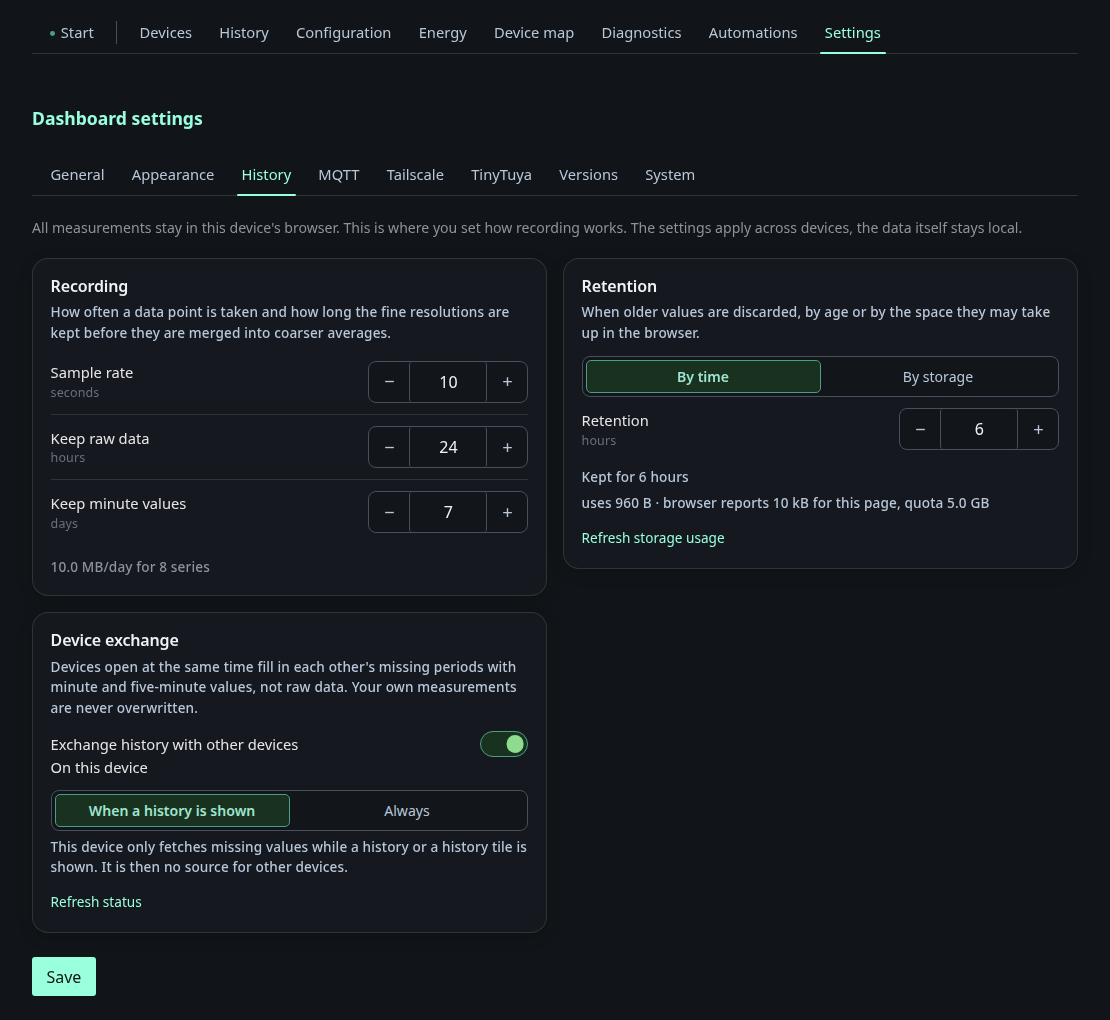
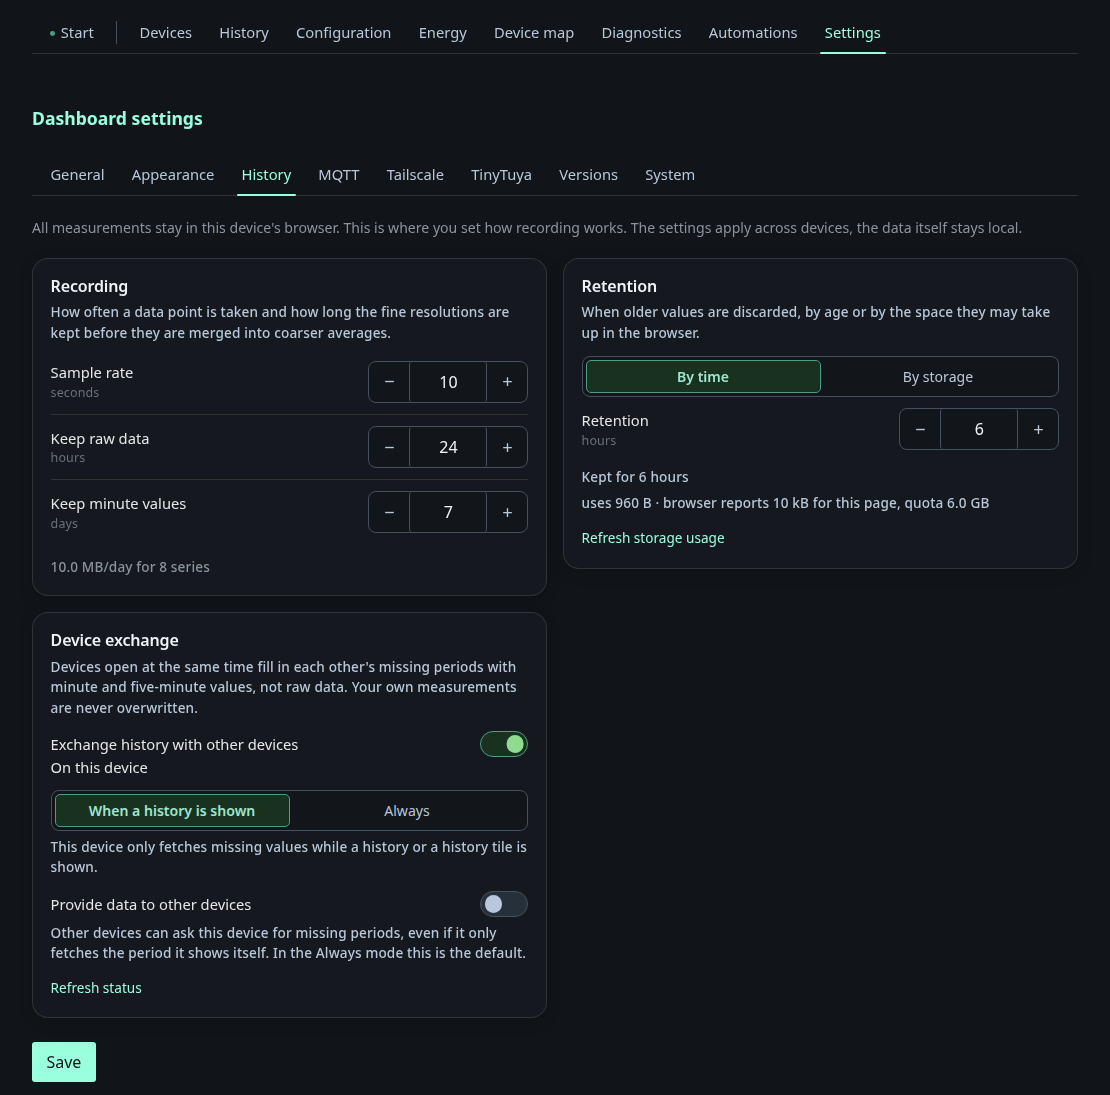
feat(dashboard): let a device in on-demand mode still provide history to others

diff --git a/dashboard/internal/webui/templates/base.html b/dashboard/internal/webui/templates/base.html
@@ -201,7 +201,7 @@
   <section id="config-panel" class="panel" role="tabpanel" aria-labelledby="tab-config" x-bind:class="{ active: activePanel === 'config-panel' }" x-show="activePanel === 'config-panel'" data-panel-src="{{.BasePath}}/?fragment=panel&panel=config" data-panel-script="{{.BasePath}}/static/js/revisions.js?v=4,{{.BasePath}}/static/js/schema-form.js?v=2,{{.BasePath}}/static/js/config-status.js?v=3,{{.BasePath}}/static/js/config.page.js?v=9" data-panel-css="{{.BasePath}}/static/css/manager.css?v=32"><p class="panel-loading" data-panel-loading>{{t "panel.config_loading"}}</p></section>
   <section id="energy-panel" class="panel" role="tabpanel" aria-labelledby="tab-energy" x-bind:class="{ active: activePanel === 'energy-panel' }" x-show="activePanel === 'energy-panel'" data-panel-src="{{.BasePath}}/?fragment=panel&panel=energy" data-panel-script="{{.BasePath}}/static/js-deps/cytoscape.min.js,{{.BasePath}}/static/js/revisions.js?v=4,{{.BasePath}}/static/js/devicemap-model.js?v=7,{{.BasePath}}/static/js/devicemap-graph.js?v=3,{{.BasePath}}/static/js/devicemap-dataflow.js?v=1,{{.BasePath}}/static/js/devicemap-node-svg.js?v=4,{{.BasePath}}/static/js/devicemap-labels.js?v=2,{{.BasePath}}/static/js/energy-plant.js?v=2,{{.BasePath}}/static/js/device-picker.js?v=1,{{.BasePath}}/static/js/energy.page.js?v=9" data-panel-css="{{.BasePath}}/static/css/manager.css?v=32"><p class="panel-loading" data-panel-loading>{{t "panel.energy_loading"}}</p></section>
   <section id="devicemap-panel" class="panel" role="tabpanel" aria-labelledby="tab-devicemap" x-bind:class="{ active: activePanel === 'devicemap-panel' }" x-show="activePanel === 'devicemap-panel'" data-panel-src="{{.BasePath}}/?fragment=panel&panel=devicemap" data-panel-script="{{.BasePath}}/static/js-deps/cytoscape.min.js,{{.BasePath}}/static/js/revisions.js?v=4,{{.BasePath}}/static/js/devicemap-model.js?v=7,{{.BasePath}}/static/js/devicemap-node-svg.js?v=4,{{.BasePath}}/static/js/devicemap-labels.js?v=2,{{.BasePath}}/static/js/devicemap-graph.js?v=3,{{.BasePath}}/static/js/devicemap-dataflow.js?v=1,{{.BasePath}}/static/js/automations-view.js?v=2,{{.BasePath}}/static/js/device-picker.js?v=1,{{.BasePath}}/static/js/devicemap.page.js?v=18" data-panel-css="{{.BasePath}}/static/css/manager.css?v=32"><p class="panel-loading" data-panel-loading>{{t "panel.devicemap_loading"}}</p></section>
-  <section id="settings-panel" class="panel" role="tabpanel" aria-labelledby="tab-settings" x-bind:class="{ active: activePanel === 'settings-panel' }" x-show="activePanel === 'settings-panel'" data-panel-src="{{.BasePath}}/?fragment=panel&panel=settings" data-panel-script="{{.BasePath}}/static/js-deps/choices.min.js,{{.BasePath}}/static/js/revisions.js?v=4,{{.BasePath}}/static/js/schema-form.js?v=2,{{.BasePath}}/static/js/settings.page.js?v=17,{{.BasePath}}/static/js/mqtt.page.js?v=7,{{.BasePath}}/static/js/tailscale.page.js?v=4,{{.BasePath}}/static/js/versions.page.js?v=5,{{.BasePath}}/static/js/systemconfig.page.js?v=5" data-panel-css="{{.BasePath}}/static/css/choices.min.css,{{.BasePath}}/static/css/choices.css?v=2,{{.BasePath}}/static/css/manager.css?v=32,{{.BasePath}}/static/css/settings-controls.css?v=11"><p class="panel-loading" data-panel-loading>{{t "panel.settings_loading"}}</p></section>
+  <section id="settings-panel" class="panel" role="tabpanel" aria-labelledby="tab-settings" x-bind:class="{ active: activePanel === 'settings-panel' }" x-show="activePanel === 'settings-panel'" data-panel-src="{{.BasePath}}/?fragment=panel&panel=settings" data-panel-script="{{.BasePath}}/static/js-deps/choices.min.js,{{.BasePath}}/static/js/revisions.js?v=4,{{.BasePath}}/static/js/schema-form.js?v=2,{{.BasePath}}/static/js/settings.page.js?v=18,{{.BasePath}}/static/js/mqtt.page.js?v=7,{{.BasePath}}/static/js/tailscale.page.js?v=4,{{.BasePath}}/static/js/versions.page.js?v=5,{{.BasePath}}/static/js/systemconfig.page.js?v=5" data-panel-css="{{.BasePath}}/static/css/choices.min.css,{{.BasePath}}/static/css/choices.css?v=2,{{.BasePath}}/static/css/manager.css?v=32,{{.BasePath}}/static/css/settings-controls.css?v=11"><p class="panel-loading" data-panel-loading>{{t "panel.settings_loading"}}</p></section>
   {{if index .InstalledServices "automation"}}<section id="automations-panel" class="panel" role="tabpanel" aria-labelledby="tab-automations" x-bind:class="{ active: activePanel === 'automations-panel' }" x-show="activePanel === 'automations-panel'" data-panel-src="{{.BasePath}}/?fragment=panel&panel=automations" data-panel-script="{{.BasePath}}/static/js/config-status.js?v=3,{{.BasePath}}/static/js/automations-view.js?v=2,{{.BasePath}}/static/js/automations.page.js?v=11" data-panel-css="{{.BasePath}}/static/css/manager.css?v=32,{{.BasePath}}/static/css/automations.css?v=6"><p class="panel-loading" data-panel-loading>{{t "panel.automations_loading"}}</p></section>{{end}}
   {{else}}
   <section id="diagnostics-panel" class="panel" role="tabpanel" aria-labelledby="tab-diagnostics" x-bind:class="{ active: activePanel === 'diagnostics-panel' }" x-show="activePanel === 'diagnostics-panel'" data-panel-src="{{.BasePath}}/?fragment=panel&panel=diagnostics" data-panel-css="{{.BasePath}}/static/css/settings-controls.css?v=11,{{.BasePath}}/static/css/diagnostics.css?v=2"><p class="panel-loading" data-panel-loading>{{t "panel.diagnostics_loading"}}</p></section>
@@ -270,7 +270,7 @@
   <script src="{{.BasePath}}/static/js/history-rollup.js?v=1" defer></script>
   <script src="{{.BasePath}}/static/js/history-store.js?v=4" defer></script>
   <script src="{{.BasePath}}/static/js/history-coverage.js?v=3" defer></script>
-  <script src="{{.BasePath}}/static/js/history-exchange.js?v=4" defer></script>
+  <script src="{{.BasePath}}/static/js/history-exchange.js?v=5" defer></script>
   <script src="{{.BasePath}}/static/js/history-maintenance.js?v=1" defer></script>
   <script src="{{.BasePath}}/static/js/history-recorder.js?v=11" defer></script>
   <script src="{{.BasePath}}/static/js/notifications.js?v=2" defer></script>

diff --git a/dashboard/internal/webui/static/js/history-exchange.js b/dashboard/internal/webui/static/js/history-exchange.js
@@ -34,6 +34,20 @@
     }
   };
 
+  // Ob dieses Geraet seine Deckung anderen anbietet, ist getrennt vom Modus
+  // waehlbar. Ohne gespeicherte Wahl folgt es dem Modus: always bietet an,
+  // on-demand nicht. Gespeichert wird nur die ausdrueckliche Wahl.
+  const SERVE_KEY = 'history-exchange-serve';
+
+  const readServe = () => {
+    try {
+      const value = window.localStorage.getItem(SERVE_KEY);
+      return value === 'on' || value === 'off' ? value : null;
+    } catch (error) {
+      return null;
+    }
+  };
+
   // Eine Anmeldung, die nicht erneuert wird, verfaellt. Seite und Kachel
   // melden bei jedem Laden neu an, ein geschlossener Tab dagegen nie ab.
   const WATCH_TTL_MS = 10 * 60 * 1000;
@@ -51,6 +65,8 @@
   let reconnectTimer = null;
   let pending = new Set();
   let mode = readMode();
+  let serve = readServe();
+  const serving = () => (serve === null ? mode === 'always' : serve === 'on');
   // Sichtbare Zeitraeume im Modus on-demand, Schluessel "<tab>:<ansicht>".
   let watched = new Map();
   // Zaehlt eingehende Angebote. Ein neues Angebot ist der einzige Grund,
@@ -87,8 +103,8 @@
   // erzeugte jeder Verdichtungslauf ein Angebot an alle - im Minutentakt,
   // ueber alle verbundenen Geraete.
   const refreshOffer = async () => {
-    // Im Modus on-demand ist dieses Geraet keine Quelle fuer andere.
-    if (!peerId || mode !== 'always') return;
+    // Ohne Freigabe ist dieses Geraet keine Quelle fuer andere.
+    if (!peerId || !serving()) return;
     const coverage = await ownCoverage();
     const fingerprint = JSON.stringify(coverage);
     if (fingerprint === lastOffer) return;
@@ -298,6 +314,7 @@
     options = {...options, ...(settings || {})};
     stopped = false;
     mode = readMode();
+    serve = readServe();
     try {
       const response = await fetcher(url(''));
       if (!response.ok) {
@@ -351,10 +368,21 @@
   const applyMode = async value => {
     if (value === mode) return;
     mode = value;
-    if (mode !== 'always' || !peerId) return;
+    if (!peerId) return;
+    if (serving()) {
+      lastOffer = '';
+      await refreshOffer();
+    }
+    if (mode === 'always') await planAll();
+  };
+
+  const applyServe = async value => {
+    if (value === serve) return;
+    const before = serving();
+    serve = value;
+    if (!peerId || serving() === before || !serving()) return;
     lastOffer = '';
     await refreshOffer();
-    await planAll();
   };
 
   const setMode = async next => {
@@ -367,10 +395,21 @@
     await applyMode(value);
   };
 
+  const setServe = async flag => {
+    const value = flag ? 'on' : 'off';
+    try {
+      window.localStorage.setItem(SERVE_KEY, value);
+    } catch (error) {
+      // Privater Modus: die Wahl gilt bis zum Neuladen.
+    }
+    await applyServe(value);
+  };
+
   // Andere Tabs desselben Browsers schalten ueber localStorage um. Das
   // storage-Ereignis erreicht nur die ANDEREN Tabs, der eigene ruft setMode().
   window.addEventListener('storage', event => {
     if (event.key === MODE_KEY) applyMode(readMode()).catch(() => {});
+    if (event.key === SERVE_KEY) applyServe(readServe()).catch(() => {});
   });
 
   const status = () => ({
@@ -383,9 +422,10 @@
     lastAt: state.lastAt,
     reason: state.reason,
     mode,
+    serving: serving(),
   });
 
   window.HistoryExchange = {
-    start, stop, status, pushBuffer, refreshOffer, mode: () => mode, setMode, watchRange, unwatchRange,
+    start, stop, status, pushBuffer, refreshOffer, mode: () => mode, setMode, serving, setServe, watchRange, unwatchRange,
   };
 })();

diff --git a/dashboard/internal/webui/templates/settings.html b/dashboard/internal/webui/templates/settings.html
@@ -276,6 +276,14 @@
           <label class="segmented-option"><input type="radio" name="history-exchange-mode" value="always" x-bind:checked="historyExchangeMode === 'always'" x-on:change="setExchangeMode('always')"><span>{{t "settings.history.exchange.mode.always"}}</span></label>
         </div>
         <p id="history-exchange-mode-note" class="setting-note" x-show="historyExchangeMode === 'on-demand'">{{t "settings.history.exchange.mode.on_demand_note"}}</p>
+        <label class="switch-row" for="history-exchange-serve">
+          <span>{{t "settings.history.exchange.serve.label"}}</span>
+          <span class="settings-toggle">
+            <input id="history-exchange-serve" type="checkbox" role="switch" x-bind:checked="historyExchangeServe" x-on:change="setExchangeServe($event.target.checked)" x-bind:aria-checked="historyExchangeServe.toString()">
+            <span class="settings-toggle-track" aria-hidden="true"><span class="settings-toggle-thumb"></span></span>
+          </span>
+        </label>
+        <p id="history-exchange-serve-note" class="setting-note">{{t "settings.history.exchange.serve.note"}}</p>
       </div>
       <p id="history-exchange-status" class="setting-note" x-text="historyExchangeStatus"></p>
       <p id="history-exchange-source" class="setting-note" x-show="historyExchangeSource" x-text="historyExchangeSource"></p>

diff --git a/dashboard/internal/webui/static/js/settings.page.js b/dashboard/internal/webui/static/js/settings.page.js
@@ -66,6 +66,8 @@
     // Der Modus gilt nur fuer diesen Browser und steht in localStorage
     // (history-exchange.js), nicht in den Knoten-Einstellungen.
     historyExchangeMode: window.HistoryExchange && window.HistoryExchange.mode ? window.HistoryExchange.mode() : 'on-demand',
+    // Ob dieses Geraet seine Deckung anderen anbietet. Wie der Modus lokal.
+    historyExchangeServe: window.HistoryExchange && window.HistoryExchange.serving ? window.HistoryExchange.serving() : false,
     historyExchangeStatus: '',
     historyExchangeSource: '',
     historyViews: [],
@@ -274,6 +276,13 @@
       this.historyExchangeMode = mode === 'always' ? 'always' : 'on-demand';
       if (window.HistoryExchange && window.HistoryExchange.setMode) {
         window.HistoryExchange.setMode(this.historyExchangeMode).catch(() => {});
+      }
+    },
+
+    setExchangeServe(flag) {
+      this.historyExchangeServe = Boolean(flag);
+      if (window.HistoryExchange && window.HistoryExchange.setServe) {
+        window.HistoryExchange.setServe(this.historyExchangeServe).catch(() => {});
       }
     },
 

diff --git a/dashboard/internal/webui/webui_test.go b/dashboard/internal/webui/webui_test.go
@@ -140,7 +140,7 @@ func TestOverviewDoesNotLoadManagerAssetsInitially(t *testing.T) {
 	}
 	for path, script := range map[string]string{
 		"history-panel":  "/static/js-deps/apexcharts.min.js,/static/js-deps/flatpickr.min.js?v=1,/static/js-deps/flatpickr-l10n-de.js?v=1,/static/js/history-export.js?v=2,/static/js/energy-model.js?v=3,/static/js/history-chart.js?v=2,/static/js/history.js?v=15",
-		"settings-panel": "/static/js-deps/choices.min.js,/static/js/revisions.js?v=4,/static/js/schema-form.js?v=2,/static/js/settings.page.js?v=17,/static/js/mqtt.page.js?v=7,/static/js/tailscale.page.js?v=4,/static/js/versions.page.js?v=5,/static/js/systemconfig.page.js?v=5",
+		"settings-panel": "/static/js-deps/choices.min.js,/static/js/revisions.js?v=4,/static/js/schema-form.js?v=2,/static/js/settings.page.js?v=18,/static/js/mqtt.page.js?v=7,/static/js/tailscale.page.js?v=4,/static/js/versions.page.js?v=5,/static/js/systemconfig.page.js?v=5",
 		"devices-panel":  "/static/js-deps/popper.min.js,/static/js-deps/tippy.umd.min.js",
 	} {
 		if !strings.Contains(body, `id="`+path+`"`) {

diff --git a/docs/_internal/lazy-assets-cache-busting.md b/docs/_internal/lazy-assets-cache-busting.md
@@ -91,7 +91,7 @@ As of **2026-10-10**, read from `base.html` and `overview.html`. "–" means: no
 | `js/history-rollup.js` | `1` |
 | `js/history-store.js` | `4` |
 | `js/history-coverage.js` | `3` |
-| `js/history-exchange.js` | `4` |
+| `js/history-exchange.js` | `5` |
 | `js/history-maintenance.js` | `1` |
 | `js/history-recorder.js` | `11` |
 | `js/notifications.js` | `2` |
@@ -130,7 +130,7 @@ skips scripts already present as `<script src>`.
 | `config-panel` | `js/revisions.js` `4`, `js/schema-form.js` `2`, `js/config-status.js` `3`, `js/config.page.js` `9` | `css/manager.css` `32` |
 | `energy-panel` | `js-deps/cytoscape.min.js` –, `js/revisions.js` `4`, `js/devicemap-model.js` `7`, `js/devicemap-graph.js` `3`, `js/devicemap-dataflow.js` `1`, `js/devicemap-node-svg.js` `4`, `js/devicemap-labels.js` `2`, `js/energy-plant.js` `1`, `js/device-picker.js` `1`, `js/energy.page.js` `8` | `css/manager.css` `32` |
 | `devicemap-panel` | `js-deps/cytoscape.min.js` –, `js/revisions.js` `4`, `js/devicemap-model.js` `7`, `js/devicemap-node-svg.js` `4`, `js/devicemap-labels.js` `2`, `js/devicemap-graph.js` `3`, `js/devicemap-dataflow.js` `1`, `js/automations-view.js` `1`, `js/device-picker.js` `1`, `js/devicemap.page.js` `17` | `css/manager.css` `32` |
-| `settings-panel` | `js-deps/choices.min.js` –, `js/revisions.js` `4`, `js/schema-form.js` `2`, `js/settings.page.js` `17`, `js/mqtt.page.js` `7`, `js/tailscale.page.js` `4`, `js/versions.page.js` `5`, `js/systemconfig.page.js` `5` | `css/choices.min.css` –, `css/choices.css` `2`, `css/manager.css` `32`, `css/settings-controls.css` `11` |
+| `settings-panel` | `js-deps/choices.min.js` –, `js/revisions.js` `4`, `js/schema-form.js` `2`, `js/settings.page.js` `18`, `js/mqtt.page.js` `7`, `js/tailscale.page.js` `4`, `js/versions.page.js` `5`, `js/systemconfig.page.js` `5` | `css/choices.min.css` –, `css/choices.css` `2`, `css/manager.css` `32`, `css/settings-controls.css` `11` |
 | `automations-panel` | `js/config-status.js` `3`, `js/automations-view.js` `1`, `js/automations.page.js` `8` | `css/manager.css` `32`, `css/automations.css` `5` |
 
 The former `layout-panel` is gone (the "layout edit mode" work): the layout
@@ -249,7 +249,7 @@ recomputable.
 
 | Dashboard version | Files | New `?v=` | Date |
 |---|---|---|---|
-| v0.9.3 | `js/history-store.js` · `js/history-exchange.js` · `js/history-coverage.js` · `js/history-recorder.js` · `js/history.js` (history panel) · `js/settings.page.js` (settings panel) · `js/history-view-card.js` (history tile, `webui.go`) | `4` · `4` · `3` · `11` · `15` · `17` · `2` | 2026-10-11 |
+| v0.9.3 | `js/history-store.js` · `js/history-exchange.js` · `js/history-coverage.js` · `js/history-recorder.js` · `js/history.js` (history panel) · `js/settings.page.js` (settings panel) · `js/history-view-card.js` (history tile, `webui.go`) | `4` · `5` · `3` · `11` · `15` · `18` · `2` | 2026-10-11 |
 | v0.9.2 | `css/base.css` · `js/dashboard.js` · `js/update-bar.js` (new) · `js/settings.page.js` · `js/versions.page.js` · `js/whatsnew.page.js` (new) · `css/settings-controls.css` (settings, diagnostics) | `34` · `29` · `3` (new) · `16` · `5` · `2` (new) · `11` | 2026-10-10 |
 | v0.9.1 | `js/automations.page.js` | `11` | 2026-10-10 |
 | v0.8.20 | `css/base.css` · `js/dashboard.js` · `js/devicemap-model.js` (energy, device map) · `js/devicemap-node-svg.js` (energy, device map) · `js/devicemap.page.js` | `29` · `28` · `7` · `4` · `17` | 2026-10-10 |

diff --git a/docs/dashboard/settings.md b/docs/dashboard/settings.md
@@ -44,8 +44,10 @@ browser's quota. The last block switches off the exchange between devices. Below
 **On this device** chooses whether this browser exchanges **Always** or only
 **When a history is shown**. The second choice is the default and spares
 phones. The browser then only fetches what the history page or a history tile
-shows, and it is no source for other devices. This choice is stored in the
-browser and applies at once, without saving.
+shows. **Provide data to other devices** decides whether other devices may
+ask this browser for missing periods. It is off in the default mode and on in
+**Always**, and you can change it independently. Both choices are stored in the
+browser and apply at once, without saving.
 
 The setting applies to every browser, but the recorded data does not. The
 measurements only exist in the browser that recorded them, and the page says so.

diff --git a/docs/developing/data-flow.md b/docs/developing/data-flow.md
@@ -432,8 +432,10 @@ and answers requests, but it sends no offer of its own. It only plans requests
 for the ranges the history page or a history tile currently shows
 (`HistoryExchange.watchRange()`). Tabs that do not lead forward these ranges to
 the leading tab over the recorder's BroadcastChannel and get a message back
-when rows arrive. A device in `on-demand` mode is no source for other devices,
-except through the ring buffer.
+when rows arrive. Whether a device offers its own coverage to others is a
+separate per-device choice (`history-exchange-serve`). Without a stored choice
+it follows the mode: `always` offers, `on-demand` does not and is then a source
+only through the ring buffer.
 
 Home Assistant can join as a permanent peer that supplies data, through the
 `energy_node_companion` integration (guest session, labelled "Home
